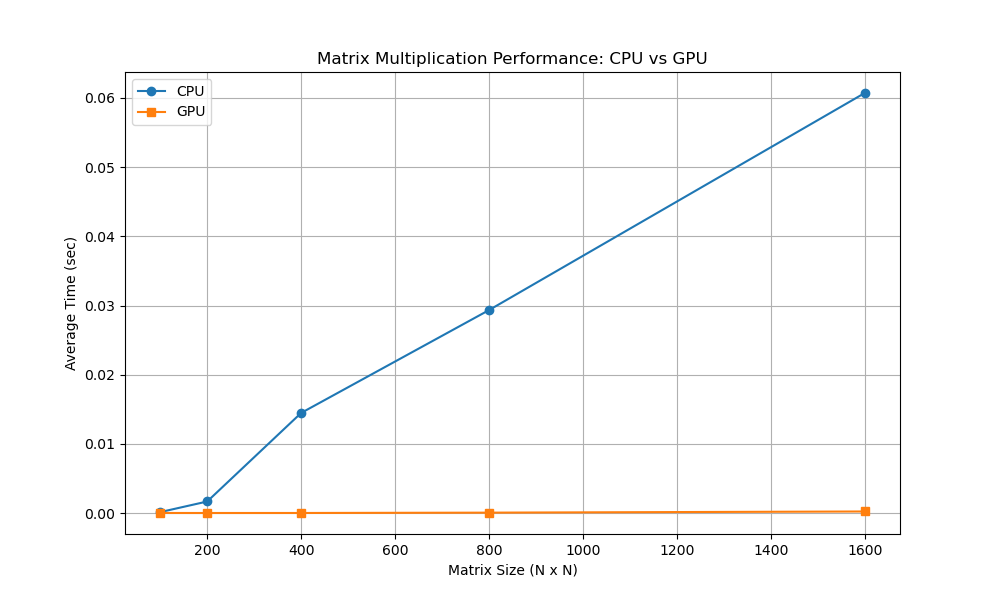
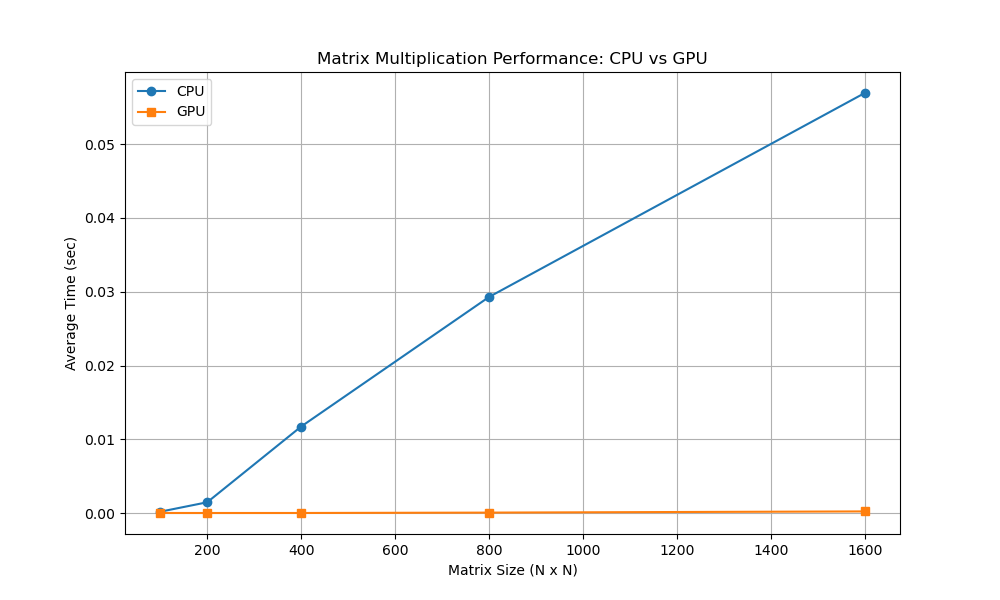
.

diff --git a/nano-vllm/src/gpu/gpu_device.py b/nano-vllm/src/gpu/gpu_device.py
@@ -1,28 +1,18 @@
 import torch
 
-if not torch.cuda.is_available():
-    print("CUDA is NOT available.")
-    exit()
-
 props = torch.cuda.get_device_properties(0)
 
-print(f"===== Device 0 Information =====")
+print(f"===== Device 0 Information (Verified) =====")
 print(f"Name: {props.name}")
 print(f"Compute Capability: {props.major}.{props.minor}")
-print(f"MultiProcessor Count: {props.multi_processor_count}")
+print(f"MultiProcessor Count (SM): {props.multi_processor_count}")
+print(f"Warp Size: {props.warp_size}")
+print(f"Total Memory: {props.total_memory / (1024**3):.2f} GB")
 
-# 속성명이 다를 수 있으므로 getattr로 안전하게 가져옵니다.
-# PyTorch 버전에 따라 'total_shared_mem' 또는 'shared_mem_per_block'일 수 있습니다.
-shared_mem = getattr(props, 'total_shared_mem', "N/A")
-max_threads = getattr(props, 'max_threads_per_block', "N/A")
-warp_size = getattr(props, 'warp_size', "N/A")
-
-if isinstance(shared_mem, int):
-    print(f"Shared Memory per Block: {shared_mem / 1024:.2f} KB")
-else:
-    print(f"Shared Memory: {shared_mem}")
-
-print(f"Max Threads per Block: {max_threads}")
-print(f"Warp Size: {warp_size}")
-print(f"Total Global Memory: {props.total_memory / (1024**3):.2f} GB")
-print("================================")
+# 확인된 리스트에 있는 속성들
+print(f"L2 Cache Size: {props.L2_cache_size / 1024 / 1024:.2f} MB")
+print(f"Max Threads per SM: {props.max_threads_per_multi_processor}")
+print(f"Regs per SM: {props.regs_per_multiprocessor}")
+print(f"Architecture Name: {getattr(props, 'gcnArchName', 'N/A')}")
+print(f"UUID: {props.uuid}")
+print("===========================================")
